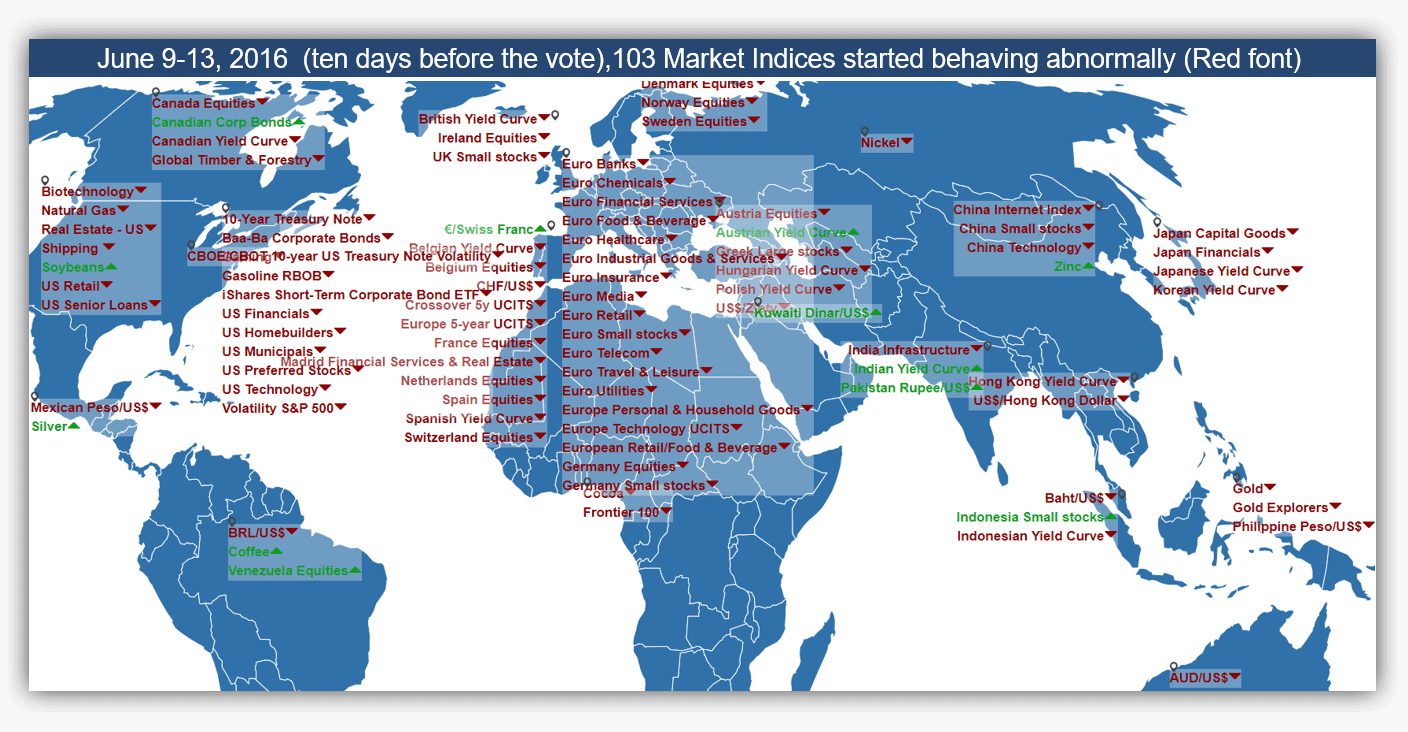
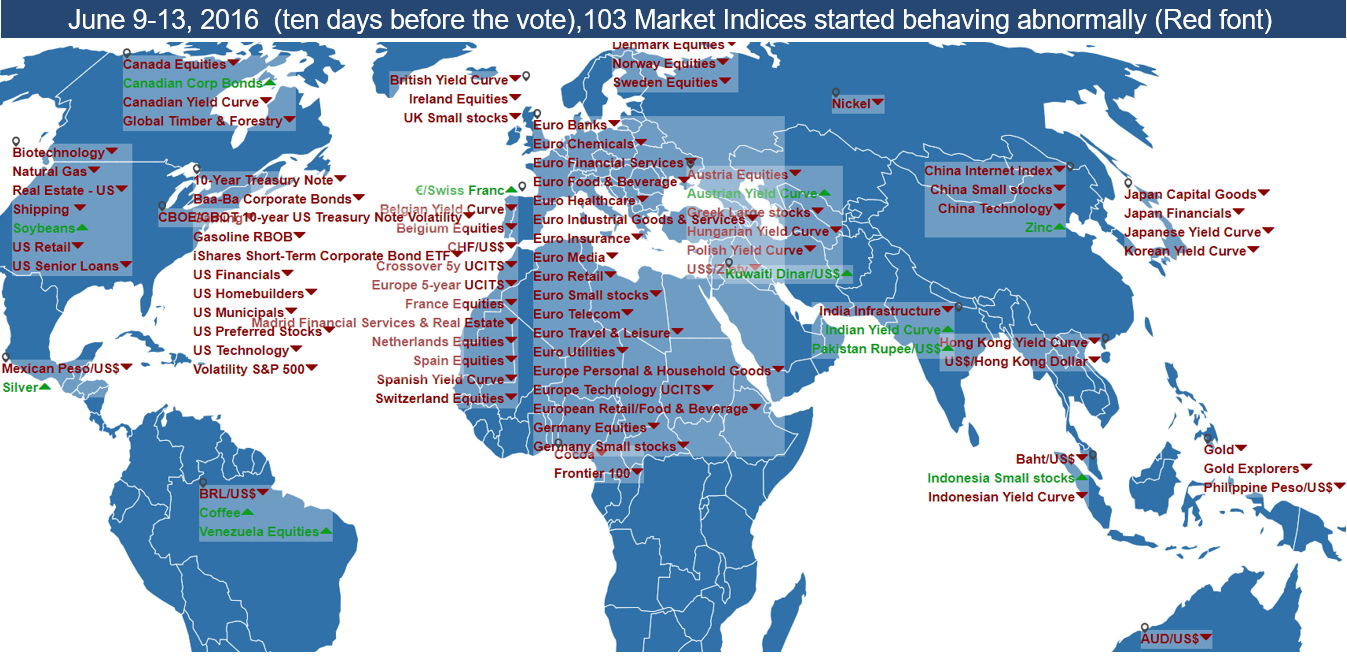
box-shadow slide

diff --git a/tenviz-landing-page/css/style.css b/tenviz-landing-page/css/style.css
@@ -229,6 +229,18 @@ img {
 	/*background: #ffffff;*/
 }
 
+.landing-page-content .macro-regimes-monitor-content .mrm-content-slider .image-item-block {
+	/*border: solid 1px red;*/
+	padding: 15px;
+	box-sizing: border-box;
+}
+
+.landing-page-content .macro-regimes-monitor-content .mrm-content-slider .image-item-block img {
+	-webkit-box-shadow: 0px 0px 10px 0px rgba(0,0,0,0.72);
+	-moz-box-shadow: 0px 0px 10px 0px rgba(0,0,0,0.72);
+	box-shadow: 0px 0px 10px 0px rgba(0,0,0,0.72);
+}
+
 .landing-page-content .predictive-risk-management-content .prm-content-slider img {
 	width: 100%;
 	margin: 0 auto;

diff --git a/tenviz-landing-page/index.html b/tenviz-landing-page/index.html
@@ -172,10 +172,10 @@
 					</div>
 
 					<div class="mrm-content-slider lazy slider">
-						<div>
+						<div class="image-item-block">
 							<img src="img/slider-img/macro-regimes-monitor/mrm1.png" data-src="img/slider-img/macro-regimes-monitor/mrm1.png" alt="img" class="image-enlargement-item">
 						</div>
-						<div>
+						<div class="image-item-block">
 							<img src="img/slider-img/macro-regimes-monitor/mrm2.png" data-src="img/slider-img/macro-regimes-monitor/mrm2.png" alt="img" class="image-enlargement-item">
 						</div>
 					</div>
